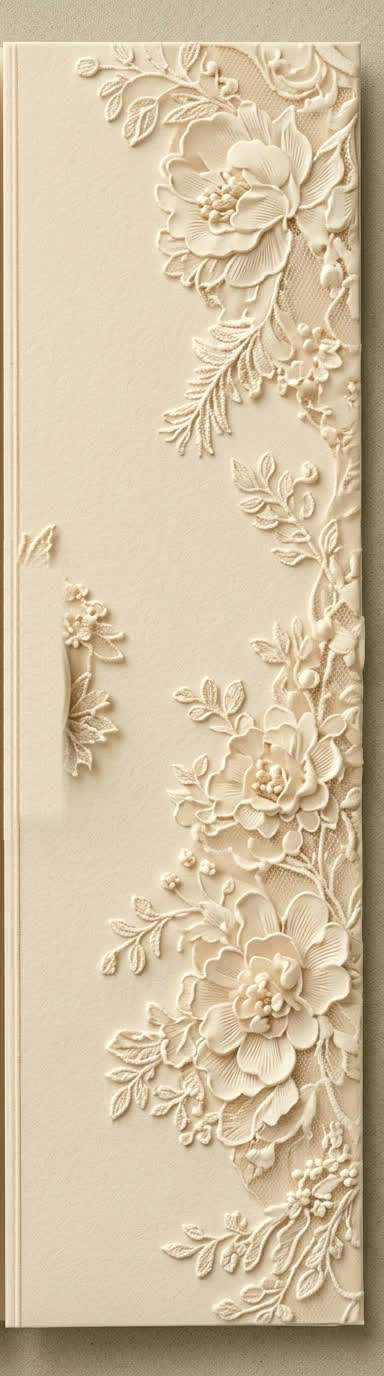
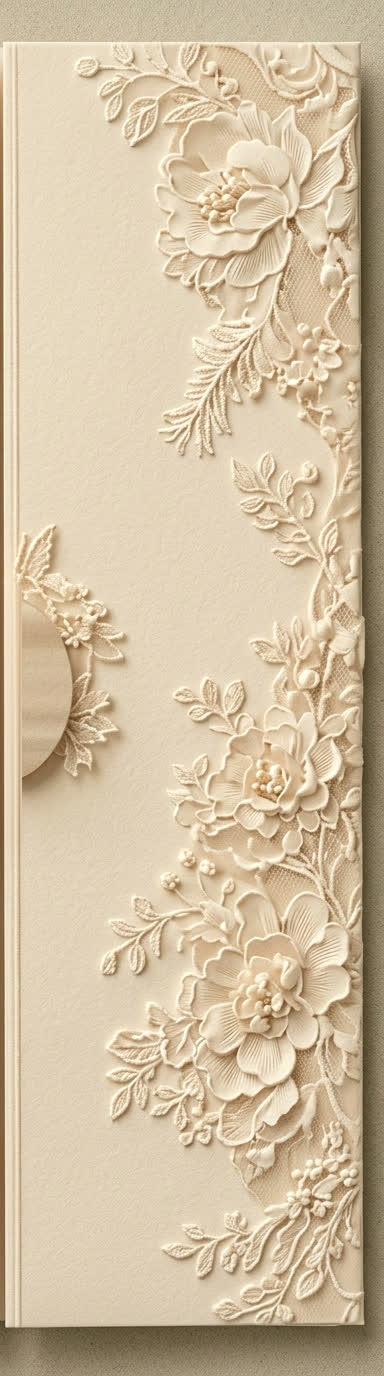
Fix right door smudge and replace center glow with edge-lighting
- Right door: re-copied the corrected, unsmudged asset after the
  previous one (already color-matched to the left door) turned out to
  still have a smudge artifact.
- Glow: replaced the single round center-blob flare with thin golden
  rim-lighting along each door's opening edge, plus a soft halo
  (drop-shadow) directly on the wax seal itself - reads as light
  spilling out along the crack as the doors part, rather than one
  diffuse glow floating behind the card.

Changed region(s): [[0.0, 0.4062, 0.1875, 0.5938]]

diff --git a/css/style.css b/css/style.css
@@ -263,67 +263,71 @@ section {
     transform: rotateY(108deg);
 }
 
-/* Golden backlight flare, pushed behind both doors in actual 3D space
-   (translateZ(-60px), plus z-index -1 as a 2D-context fallback) - flares
-   up once the doors have actually started cracking open, peaks mid-swing,
-   and dissolves by the time the hero is revealed. Previously sat only at
-   z-index 0 with no Z depth, which let it render ON TOP of the doors'
-   own glossy seal face in Safari/WebKit's 3D compositor - transform-style:
-   preserve-3d on the parent (.gatefold-screen) is what makes the Z axis
-   actually apply here instead of being flattened. */
+/* =========================================
+   Golden Glow on the Sides of the Gates
+   (Replaces the center round blob with edge-lighting on both doors)
+   ========================================= */
+
+/* Disable the round center blob inside the card */
 .gate-glow {
+    display: none !important;
+}
+
+/* Golden rim-light along the opening side/edge of the LEFT door */
+.gatefold-screen.is-open .gate-left::before {
+    content: '';
     position: absolute;
-    top: 50%;
-    left: 50%;
-    transform: translate(-50%, -50%) translateZ(-60px) scale(0.6);
-    width: 240px;
-    height: 420px;
-    border-radius: 50%;
-    background: radial-gradient(
-        ellipse at center,
-        rgba(255, 245, 210, 0.95) 0%,
-        rgba(255, 215, 120, 0.85) 30%,
-        rgba(212, 163, 115, 0.5) 55%,
-        rgba(212, 163, 115, 0) 75%
-    );
-    filter: blur(28px);
+    top: 0; right: 0;
+    width: 6px; height: 100%;
+    box-shadow: 0 0 20px 4px rgba(255, 220, 130, 0.95), 0 0 45px 12px rgba(212, 163, 115, 0.6);
     opacity: 0;
     pointer-events: none;
-    z-index: -1;
+    z-index: 1; /* Sits behind the wax seal (seal is z-index: 10) */
+    animation: gateEdgeFlare 1.8s cubic-bezier(0.25, 1, 0.5, 1) forwards;
 }
 
-.gatefold-screen.is-open .gate-glow {
-    animation: gateGlowSpill 1.8s cubic-bezier(0.25, 1, 0.5, 1) forwards;
+/* Golden rim-light along the opening side/edge of the RIGHT door */
+.gatefold-screen.is-open .gate-right::before {
+    content: '';
+    position: absolute;
+    top: 0; left: 0;
+    width: 6px; height: 100%;
+    box-shadow: 0 0 20px 4px rgba(255, 220, 130, 0.95), 0 0 45px 12px rgba(212, 163, 115, 0.6);
+    opacity: 0;
+    pointer-events: none;
+    z-index: 1;
+    animation: gateEdgeFlare 1.8s cubic-bezier(0.25, 1, 0.5, 1) forwards;
 }
 
-@keyframes gateGlowSpill {
-    0%, 15% {
+/* Golden halo radiating outward from behind the wax seal silhouette */
+.gatefold-screen.is-open .gate-seal {
+    filter: drop-shadow(0 0 16px rgba(255, 220, 130, 0.95)) drop-shadow(0 0 32px rgba(212, 163, 115, 0.7));
+    transition: filter 0.4s ease;
+}
+
+/* Flare peaks as doors swing open and dissolves as they clear the screen */
+@keyframes gateEdgeFlare {
+    0% {
         opacity: 0;
-        transform: translate(-50%, -50%) translateZ(-60px) scale(0.6);
     }
-    30% {
+    18% {
+        opacity: 1;
+    }
+    60% {
         opacity: 0.85;
-        transform: translate(-50%, -50%) translateZ(-60px) scale(1.1);
-        filter: blur(22px);
-    }
-    55% {
-        opacity: 0.95;
-        transform: translate(-50%, -50%) translateZ(-60px) scale(1.6);
-        filter: blur(35px);
-    }
-    80% {
-        opacity: 0.3;
-        transform: translate(-50%, -50%) translateZ(-60px) scale(2.2);
     }
     100% {
         opacity: 0;
-        transform: translate(-50%, -50%) translateZ(-60px) scale(2.6);
     }
 }
 
 @media (prefers-reduced-motion: reduce) {
-    .gate-glow {
+    .gatefold-screen.is-open .gate-left::before,
+    .gatefold-screen.is-open .gate-right::before {
         display: none;
+    }
+    .gatefold-screen.is-open .gate-seal {
+        filter: none;
     }
 }
 
